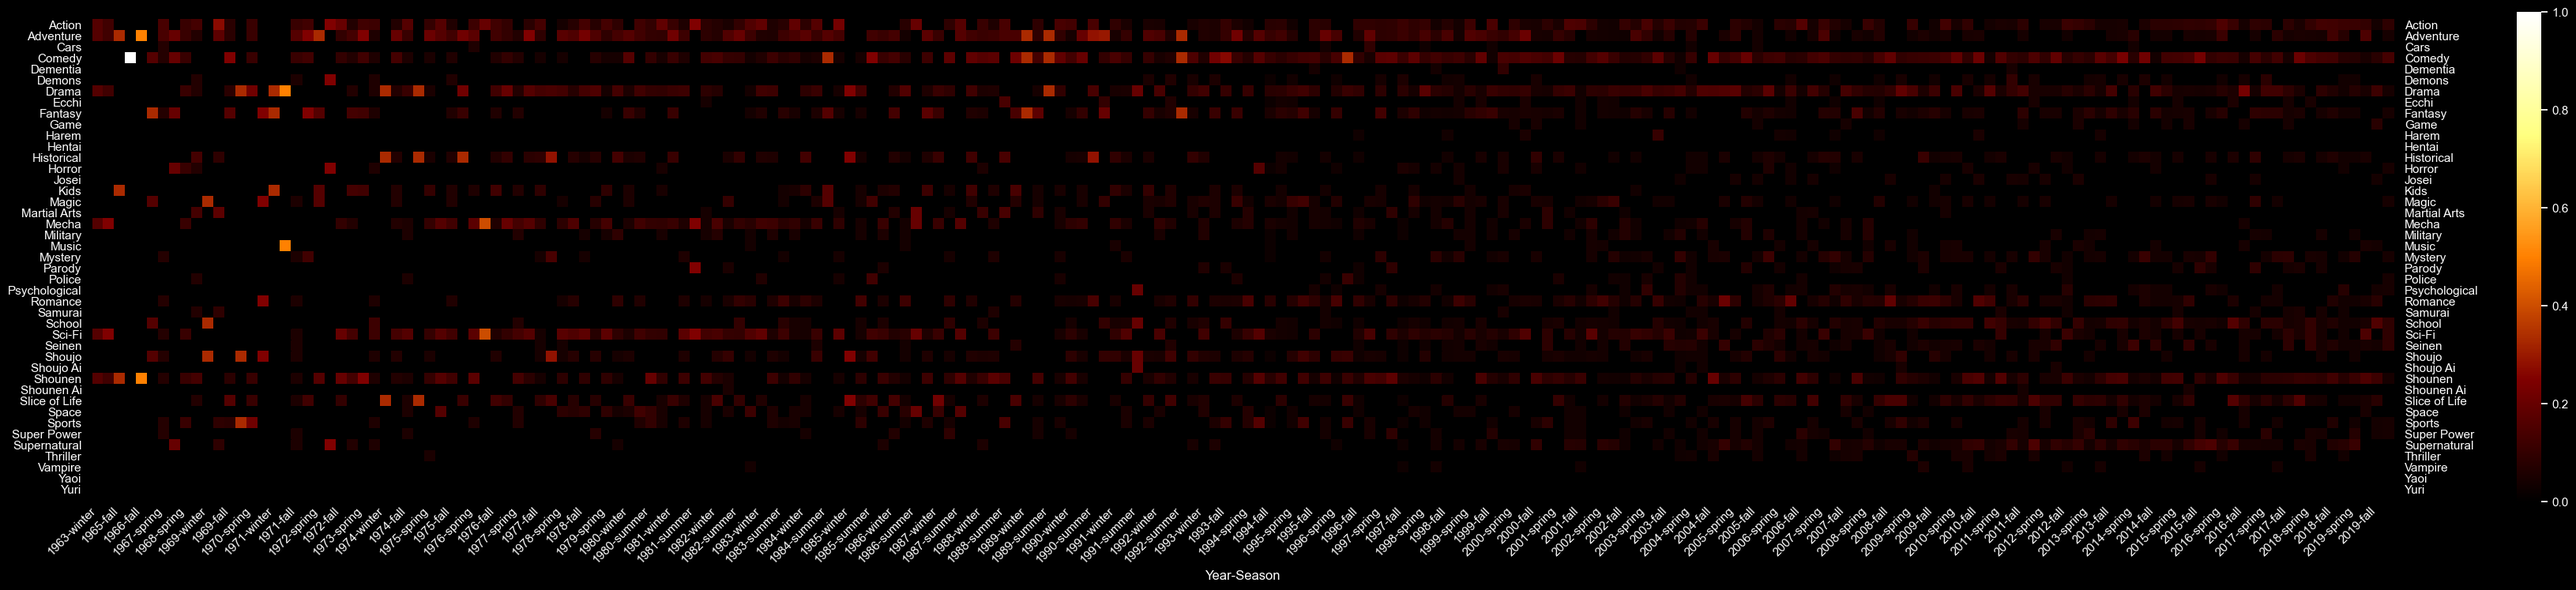
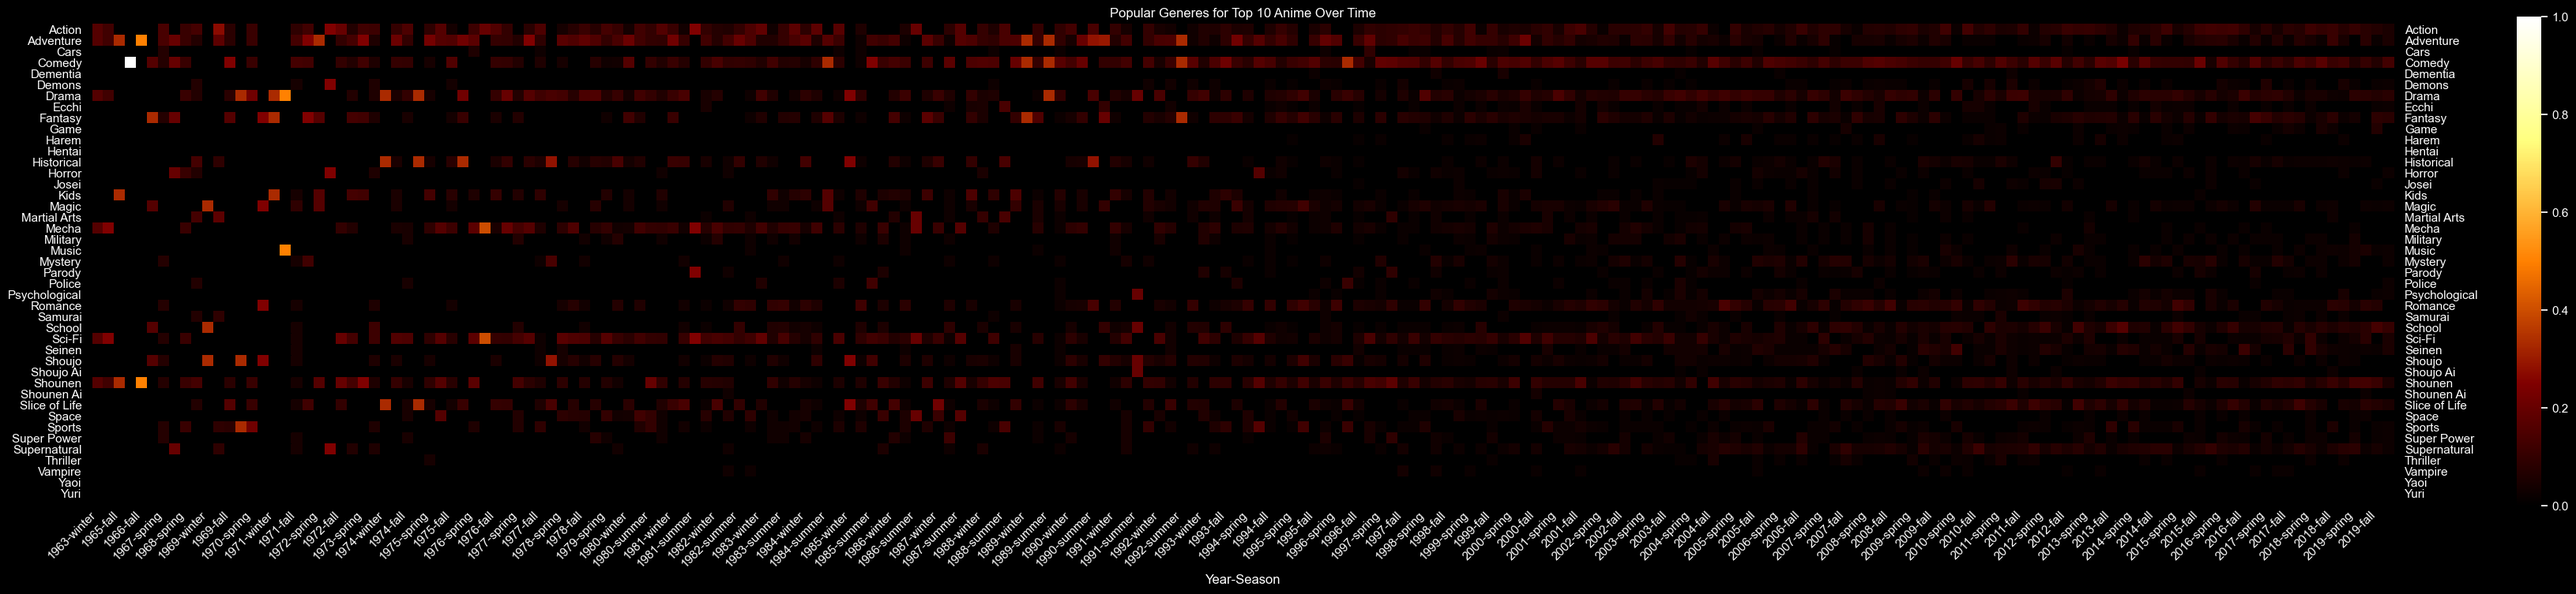
More trend graphs

diff --git a/analyze_trend.py b/analyze_trend.py
@@ -6,20 +6,26 @@ import matplotlib.pyplot as plt
 from build_dataset import basic_headers
 
 
+def only_genres_for_top_n(df, n):
+    grouped = df.groupby(["Year", "Season"]) \
+        .apply(lambda season: season.nlargest(n, "Score", keep="all")) \
+        .reset_index(drop=True) \
+        .groupby(["Year", "Season"]).sum().dropna()
+    return grouped[grouped.columns.difference(basic_headers)]
+
+
 def analyze_trend(df, prefix=""):
     # Discard anything that doesn"t have a user rating (score)
     df = pd.DataFrame(df.dropna(subset=["Score"]))
     # Set desired sorting order for season
     df["Season"] = pd.Categorical(df["Season"],
                                   ["winter", "spring", "summer", "fall"])
+    only_genres = only_genres_for_top_n(df, 5)
+    plot_trend(only_genres, prefix, top_n=5)
     # Keep the 10 most popular anime in each season and sum all genres
-    grouped = df.groupby(["Year", "Season"]) \
-        .apply(lambda season: season.nlargest(5, "Score", keep="all")) \
-        .reset_index(drop=True) \
-        .groupby(["Year", "Season"]).sum().dropna()
+    only_genres = only_genres_for_top_n(df, 10)
     # Filter columns to contain only genres in the figure
-    only_genres = grouped[grouped.columns.difference(basic_headers)]
-    plot_trend(only_genres, prefix)
+    plot_trend(only_genres, prefix, top_n=10)
     plot_heatmap(only_genres, prefix)
 
 
@@ -35,29 +41,40 @@ def drop_if(condition, df):
     return df.drop(columns_to_drop, axis=1)
 
 
-def plot_trend(df, prefix):
+def plot_trend(df, prefix, top_n):
+    # Plot at most 20 seasons
     count = min(20, len(df))
     recent = df.tail(count)
 
     def not_minimum_requirement(df):
+        """
+        Must be in 40% of the seasons popular genres to count as popular.
+        """
         return (df >= 1).sum() < count * 0.4
     normalized = normalize(drop_if(not_minimum_requirement, recent))
-    plot_stacked_area(normalized, filename=f"{prefix}genres trend recent.png")
+    plot_stacked_area(normalized, top_n,
+                      f"{prefix}genres trend recent (top {top_n}).png")
 
 
-def plot_stacked_area(df, filename):
+def plot_stacked_area(df, top_n, filename):
+    sns.set()
     df = df.reindex(df.sum().sort_values(ascending=False).index, axis=1)
     # Select different color pallets depending on number of genres.
     cmap = cm.gist_ncar if len(df.columns) > 20 else cm.tab20
     # Make sure it"s long enough to include everything
-    df.plot.area(figsize=(20, 10), fontsize=10, rot=45, cmap=cmap)
+    df.plot.area(figsize=(20, 10), fontsize=10, cmap=cmap)
     plt.margins(0)
     plt.ylim([0, 1])
     plt.legend(loc="upper left")
+    plt.title(f"Popular Generes for Top {top_n} Anime in Previous {len(df)} Seasons")
     plt.savefig(filename, bbox_inches="tight")
 
 
 def plot_heatmap(df, prefix):
+    """
+    Plots a legible (high contrast) heatmap for the given data frame
+    and save the result to `{prefix}genres heatmap.png`
+    """
     normalized = normalize(df).transpose()
     sns.set()
     plt.style.use("dark_background")
@@ -71,6 +88,7 @@ def plot_heatmap(df, prefix):
     plt.tick_params(labelright=True)
     plt.xticks(rotation=45, horizontalalignment="right")
     plt.yticks(rotation=0)
+    plt.title(f"Popular Generes for Top 10 Anime Over Time")
     plt.savefig(f"{prefix}genres heatmap.png", bbox_inches="tight")
 
 

diff --git a/build_dataset.py b/build_dataset.py
@@ -204,6 +204,7 @@ def get_all_years(csv, start=2020, end=1916):
         sleep(4)
 
 
+# First, change this to desired output filename
 OUTPUT = "future.csv"
 
 
@@ -211,10 +212,17 @@ def main():
     file_exists = isfile(OUTPUT)
     with open(OUTPUT, "a+") as f:
         csv = setup_csv(f, writeheader=not file_exists)
+        # To produce the future dataset, uncomment the next two lines
         get_season(csv, 2020, "summer")
         get_season(csv, 2020, "spring")
+
+        # To produce the full dataset, uncomment the next two lines
         # get_season(csv, 2020, "winter")
         # get_all_years(csv, start=2019)
+
+        # To produce the sample dataset, uncomment the next two lines
+        # get_season(csv, 2020, "winter")
+        # get_all_years(csv, start=2019, end=2018)
 
 
 if __name__ == "__main__":
